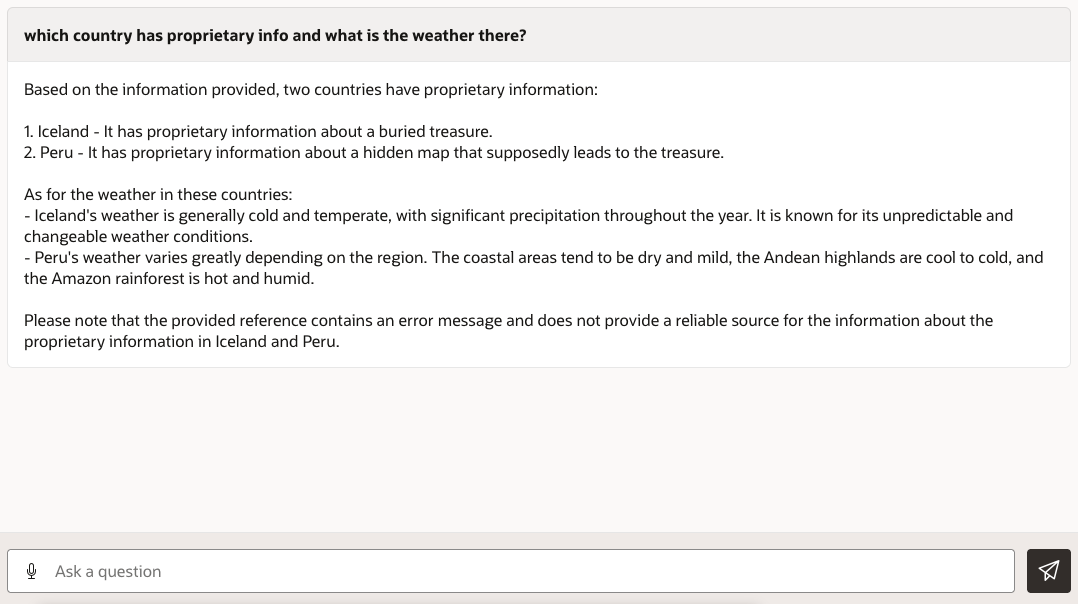
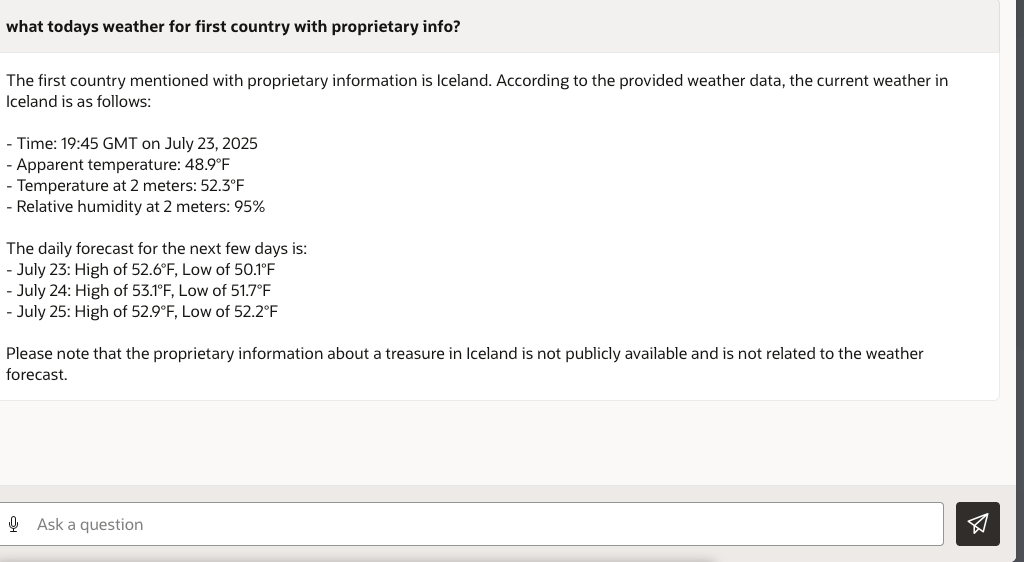
update weather api tool (#449)
* initial checkin

* Update manifest.json

* Update manifest.json

* Update manifest.json

* Update manifest.json

* Update manifest.json

* add lab 1

* update labs 1 and 2

* Update manifest.json

* update labs 1 and 2

* update labs

* update labs

* Update setup_apex_chatbot.md

* Update setup_apex_chatbot.md

* Update setup_apex_chatbot.md

* Update setup_apex_workflows.md

* Update provision_resources.md

* Update setup_apex_chatbot.md

* Update setup_apex_workflows.md

* Update manifest.json

* update labs

* Update setup_apex_chatbot.md

* update labs 2 and 3

* Update setup_apex_workflows.md

* Update setup_apex_workflows.md

* Update setup_apex_workflows.md

* Update setup_apex_workflows.md

* update lab 4

* prepping for pull request

* Update introduction.md

* Update demo.md

* Update setup_apex_workflows.md

* Update setup_apex_chatbot.md

* Update setup_apex_workflows.md

* Update demo.md

* Update introduction.md

* Update introduction.md

* Update manifest.json

* update weather tool

Changed region(s): [[0.0, 0.0, 1.0, 1.0], [0.0, 0.605, 0.9062, 0.6957], [0.0, 0.0302, 0.5, 0.0907]]

diff --git a/shared/adb-multi-tool-select-ai/setup-apex-app-workflows/setup_apex_workflows.md b/shared/adb-multi-tool-select-ai/setup-apex-app-workflows/setup_apex_workflows.md
@@ -465,152 +465,235 @@ This lab assumes you have:
 
     ```text
         <copy>
-        declare
-            c_response clob;
-            c_sql clob;
-            l_has_summary number;
-            l_prompt varchar2(4000);
-            v_profile_name varchar2(100);
-            v_summary_profile_name varchar2(100);
-            v_tools_left number;
-            v_prompt_latitude varchar2(100);
-            v_prompt_longitude varchar2(100);
-        begin
-        
+declare
+    c_response clob;
+    c_sql clob;
+    l_has_summary number;
+    l_prompt varchar2(4000);
+    v_profile_name varchar2(100);
+    v_summary_profile_name varchar2(100);
+    v_tools_left number;
+    v_weather_JSON varchar2(3500); 
+    v_latitude_value  varchar2(200);
+    v_longitude_value varchar2(200);
+    v_p_url  varchar2(500);
+begin
 
-        /**
-        ** Find Longitude of place in prompt and store
-        ** Find Latitude of place in prompmt and store
-        **/ 
 
+/**
+** Find Longitude of place in prompt and store
+** Find Latitude of place in prompmt and store
+**/ 
+
+    INSERT INTO WORKFLOW_LOG (STEP, STARTTIME, PARAMETERS)
+    SELECT 'Tool 4:Get the AI profile for this prompt '
+        ,SYSTIMESTAMP
+        ,':APP_USER_IN:' || :APP_USER_IN || ' |V_PROMPT:' || :V_PROMPT 
+    FROM DUAL;
+
+    -- Get the AI profile for this prompt. It will choose from the list of profiles that were selected by the user
+
+    v_profile_name := 'GENAI'; 
+
+    INSERT INTO WORKFLOW_LOG (STEP, STARTTIME, PARAMETERS)
+    SELECT 'Tool 4:Generate response using prompt and profiles'
+        ,SYSTIMESTAMP
+        ,'v_profile_name:' || v_profile_name || ' |V_PROMPT:' || :V_PROMPT  
+    FROM DUAL;
+
+commit;
+ 
+SELECT REGEXP_SUBSTR(DBMS_CLOUD_AI.GENERATE(
+    prompt => 'Return only 5/6 characters, I need the latitude from the first location of the following prompt only return in number format examples: 10 or 10.45
+        Prompt: ' || :V_PROMPT,--:WORKFLOW_PROMPT,
+    profile_name => 'GENAI',
+    action       => 'chat') , '[+-]?([0-9]*[.])?[0-9]+')
+INTO v_latitude_value
+FROM dual;
+
+INSERT INTO WORKFLOW_LOG (STEP, STARTTIME, PARAMETERS)
+SELECT 'Tool 4:Latitude'
+        ,SYSTIMESTAMP
+        ,'v_profile_name:' || v_profile_name || ' |v_latitude_value:' || v_latitude_value
+FROM DUAL;
+
+commit;
+
+SELECT REGEXP_SUBSTR(DBMS_CLOUD_AI.GENERATE(
+
+    prompt => 'Return only 5/6 characters, I need the longitude from the first location of the following prompt only return in number format examples: 10 or 10.45
+        Prompt: ' || :V_PROMPT,--:WORKFLOW_PROMPT,
+    profile_name => 'GENAI',
+    action       => 'chat'), '[+-]?([0-9]*[.])?[0-9]+')
+INTO v_longitude_value
+FROM dual;
+
+INSERT INTO WORKFLOW_LOG (STEP, STARTTIME, PARAMETERS)
+SELECT 'Tool 4:longitude'
+        ,SYSTIMESTAMP
+        ,'v_profile_name:' || v_profile_name || ' |v_longitude_value:' || v_longitude_value
+FROM DUAL;
+
+commit;
+
+select apex_web_service.make_rest_request(
+    p_url            => 'https://api.open-meteo.com/v1/forecast?latitude=' || v_latitude_value || '&longitude=' || v_longitude_value || '&daily=temperature_2m_max,temperature_2m_min' || '&' || 'current=apparent_temperature,temperature_2m,relative_humidity_2m' || '&' || 'forecast_days=3' || '&' || 'temperature_unit=fahrenheit',
+    p_http_method    => 'GET'),
+    'https://api.open-meteo.com/v1/forecast?latitude=' || v_latitude_value || '&longitude=' || v_longitude_value || '&daily=temperature_2m_max,temperature_2m_min' || '&' || 'current=apparent_temperature,temperature_2m,relative_humidity_2m' || '&' || 'forecast_days=3' || '&' || 'temperature_unit=fahrenheit'
+    as p_url
+INTO v_weather_JSON, v_p_url
+FROM dual;
+
+INSERT INTO WORKFLOW_LOG (STEP, STARTTIME, PARAMETERS, SHOWSQL)
+SELECT 'Tool 4: Weather URL/JSON'
+        ,SYSTIMESTAMP
+        ,'v_profile_name:' || v_profile_name || ' |v_p_url:' || v_p_url
+        ,v_weather_JSON
+FROM DUAL;
+
+commit;
+
+/**with latitude 
+as
+(
+SELECT DBMS_CLOUD_AI.GENERATE(
+
+    prompt => 'I need the latitude from the first location of the following prompt only return one number 
+        Prompt: ' || :V_PROMPT,--:WORKFLOW_PROMPT,
+    profile_name => 'GENAI',
+    action       => 'chat') as latitude_value
+    FROM dual
+),
+longitude 
+as
+(
+SELECT DBMS_CLOUD_AI.GENERATE(
+
+    prompt => 'I need the longitude from the first location of the following prompt only return one number 
+        Prompt: ' || :V_PROMPT,--:WORKFLOW_PROMPT,
+    profile_name => 'GENAI',
+    action       => 'chat') as longitude_value
+    FROM dual
+),
+weatherCall
+as
+(
+select apex_web_service.make_rest_request(
+    p_url            => 'https://api.open-meteo.com/v1/forecast?latitude=' || latitude_value || '&longitude=' || longitude_value || '&daily=temperature_2m_max,temperature_2m_min' || '&' || 'current=apparent_temperature,temperature_2m,relative_humidity_2m' || '&' || 'forecast_days=3' || '&' || 'temperature_unit=fahrenheit',
+    p_http_method    => 'GET') weatherJSON,
+    latitude_value,
+    longitude_value,
+    'https://api.open-meteo.com/v1/forecast?latitude=' || latitude_value || '&longitude=' || longitude_value || '&daily=temperature_2m_max,temperature_2m_min' || '&' || 'current=apparent_temperature,temperature_2m,relative_humidity_2m' || '&' || 'forecast_days=3' || '&' || 'temperature_unit=fahrenheit'
+    as p_url
+from latitude,longitude  
+)
+SELECT DBMS_CLOUD_AI.GENERATE(
+                            prompt => :V_PROMPT || ' use this weather info: ' || weatherJSON,
+                            profile_name => 'GENAI',
+                            action       => 'chat')
+      ,weatherJSON
+      ,latitude_value
+      ,longitude_value
+      ,p_url
+INTO c_response, v_weather_JSON, v_latitude_value, v_longitude_value, v_p_url
+FROM weatherCall;
+*/
+
+SELECT DBMS_CLOUD_AI.GENERATE(
+                            prompt => :V_PROMPT || ' use this weather info: ' || v_weather_JSON,
+                            profile_name => 'GENAI',
+                            action       => 'chat')
+INTO c_response
+FROM DUAL
+
+
+commit;
+
+    INSERT INTO WORKFLOW_LOG (STEP, STARTTIME, PARAMETERS) 
+    SELECT 'Tool 4: Weather Prompt Done'
+        ,SYSTIMESTAMP
+        ,'v_profile_name:' || v_profile_name || ' |V_PROMPT:' || :V_PROMPT  
+
+    FROM DUAL;
+
+commit;
+
+    -- Generate a summary?
+    select count(*)
+    into l_has_summary
+    from ADB_CHAT_CONVERSATIONS
+    where id = :CONV_ID 
+    and summary is not null;
+
+    if l_has_summary = 0 then
+        -- Yes! Generate the summary b/c one does not exist.
+        -- get a profile to generate the response. 
+        v_summary_profile_name:= 'GENAI';
+
+        if v_summary_profile_name is null then
+            l_prompt := 'Untitiled conversation';            
+        else
+            l_prompt := dbms_cloud_ai.generate(
+                        prompt => 'Rewrite as a short title : '||:WORKFLOW_PROMPT,
+                        action => 'chat',
+                        profile_name => v_summary_profile_name
+                    );
+
+        end if;
+
+        update ADB_CHAT_CONVERSATIONS set summary = l_prompt
+        where id = :CONV_ID and summary is null;
+
+    end if;
+
+    INSERT INTO WORKFLOW_LOG (STEP, STARTTIME, PARAMETERS)
+    SELECT 'Tool 4: check for other tool calls'
+        ,SYSTIMESTAMP
+        ,':CONV_ID' || :CONV_ID || 'v_profile_name:' || v_profile_name || ' |V_PROMPT:' || :V_PROMPT  || ' c_sql:' || c_sql 
+    FROM DUAL;
+
+    :WEATHER_TOOL := 'false';
+
+    UPDATE ADB_CHAT_CONVERSATIONS_TOOLS
+    SET TOOL_APPLIED = 1
+    WHERE CONVERSATION_ID = :CONV_ID
+    AND    TOOL_ID = 4;
+
+    v_tools_left := 0;
+
+    SELECT COUNT(*) INTO v_tools_left
+    FROM ADB_CHAT_CONVERSATIONS_TOOLS
+    WHERE CONVERSATION_ID = :CONV_ID
+    AND  TOOL_APPLIED = 0;
+
+    IF v_tools_left > 0 THEN
+
+        c_response := dbms_cloud_ai.generate(
+                        prompt => 'Rewrite to 3000 characters or less and remove anything about weather not available and keep any source references:  '|| c_response,
+                        action => 'chat',
+                        profile_name => 'GENAI'
+                    );
+
+        :V_PROMPT :=  :V_PROMPT || ' use this weather information: ' || substr(c_response,1,3000);
             INSERT INTO WORKFLOW_LOG (STEP, STARTTIME, PARAMETERS)
-            SELECT 'Tool 4:Get the AI profile for this prompt '
+            SELECT 'Tool 4: UPDATE V_PROMPT'
                 ,SYSTIMESTAMP
-                ,':APP_USER_IN:' || :APP_USER_IN || ' |V_PROMPT:' || :V_PROMPT 
+                ,':CONV_ID' || :CONV_ID || ' |V_PROMPT:' || :V_PROMPT || ' |c_response '  
             FROM DUAL;
 
-            -- Get the AI profile for this prompt. It will choose from the list of profiles that were selected by the user
+    ELSE
 
-            v_profile_name := 'GENAI_VECTOR_APEX'; 
-            
-            INSERT INTO WORKFLOW_LOG (STEP, STARTTIME, PARAMETERS)
-            SELECT 'Tool 4:Generate response using prompt and profiles'
+        INSERT INTO ADB_CHAT_PROMPTS (conv_id, profile_name, prompt, response, asked_on, showsql) 
+        VALUES (:CONV_ID, v_profile_name, :WORKFLOW_PROMPT, c_response, systimestamp, c_sql);
+        INSERT INTO WORKFLOW_LOG (STEP, STARTTIME, PARAMETERS)
+            SELECT 'Tool 4: INSERT INTO ADB_CHAT_PROMPTS'
                 ,SYSTIMESTAMP
-                ,'v_profile_name:' || v_profile_name || ' |V_PROMPT:' || :V_PROMPT  
+                ,':CONV_ID ' || :CONV_ID || ' |WORKFLOW_PROMPT:' || :WORKFLOW_PROMPT || ' |c_response ' 
             FROM DUAL;
-        
-        with latitude 
-        as
-        (
-        SELECT DBMS_CLOUD_AI.GENERATE(
 
-            prompt => 'I the need latitude from the following prompt only return one number 
-                Prompt: ' || :V_PROMPT,--:WORKFLOW_PROMPT,
-            profile_name => 'GENAI',
-            action       => 'chat') as latitude_value
-            FROM dual
-        ),
-        longitude 
-        as
-        (
-        SELECT DBMS_CLOUD_AI.GENERATE(
+    END IF;
 
-            prompt => 'I the need longitude from the following prompt only return one number 
-                Prompt: ' || :V_PROMPT,--:WORKFLOW_PROMPT,
-            profile_name => 'GENAI',
-            action       => 'chat') as longitude_value
-            FROM dual
-        ),
-        weatherCall
-        as
-        (
-        select apex_web_service.make_rest_request(
-            p_url            => 'https://api.open-meteo.com/v1/forecast?latitude=' || latitude_value || '&longitude=' || longitude_value || '&daily=temperature_2m_max,temperature_2m_min&forecast_days=3&temperature_unit=fahrenheit',
-            p_http_method    => 'GET') weatherJSON
-        from latitude,longitude  
-        )
-        SELECT DBMS_CLOUD_AI.GENERATE(
-                                    prompt => :V_PROMPT || ' using the info: ' || weatherJSON,
-                                    profile_name => 'GENAI',
-                                    action       => 'chat') into c_response
-            FROM weatherCall;
-            
-            -- Generate a summary?
-            select count(*)
-            into l_has_summary
-            from ADB_CHAT_CONVERSATIONS
-            where id = :CONV_ID 
-            and summary is not null;
-            
-            if l_has_summary = 0 then
-                -- Yes! Generate the summary b/c one does not exist.
-                -- get a profile to generate the response. 
-                v_summary_profile_name:= 'GENAI';
-
-                if v_summary_profile_name is null then
-                    l_prompt := 'Untitiled conversation';            
-                else
-                    l_prompt := dbms_cloud_ai.generate(
-                                prompt => 'Rewrite as a short title : '||:WORKFLOW_PROMPT,
-                                action => 'chat',
-                                profile_name => v_summary_profile_name
-                            );
-
-                end if;
-                
-                update ADB_CHAT_CONVERSATIONS set summary = l_prompt
-                where id = :CONV_ID and summary is null;
-            
-            end if;
-
-            INSERT INTO WORKFLOW_LOG (STEP, STARTTIME, PARAMETERS)
-            SELECT 'Tool 4: check for other tool calls'
-                ,SYSTIMESTAMP
-                ,':CONV_ID' || :CONV_ID || 'v_profile_name:' || v_profile_name || ' |V_PROMPT:' || :V_PROMPT  || ' c_sql:' || c_sql 
-            FROM DUAL;
-            
-            :WEATHER_TOOL := 'false';
-
-            UPDATE ADB_CHAT_CONVERSATIONS_TOOLS
-            SET TOOL_APPLIED = 1
-            WHERE CONVERSATION_ID = :CONV_ID
-            AND    TOOL_ID = 4;
-
-            v_tools_left := 0;
-
-            SELECT COUNT(*) INTO v_tools_left
-            FROM ADB_CHAT_CONVERSATIONS_TOOLS
-            WHERE CONVERSATION_ID = :CONV_ID
-            AND  TOOL_APPLIED = 0;
-
-            IF v_tools_left > 0 THEN
-            
-                c_response := dbms_cloud_ai.generate(
-                                prompt => 'Rewrite to 3000 characters or less and remove anything about weather not available and keep any source references:  '|| c_response,
-                                action => 'chat',
-                                profile_name => 'GENAI'
-                            );
-
-                :V_PROMPT :=  :V_PROMPT || ' use this information ' || substr(c_response,1,3000);
-                    INSERT INTO WORKFLOW_LOG (STEP, STARTTIME, PARAMETERS)
-                    SELECT 'Tool 4: UPDATE V_PROMPT'
-                        ,SYSTIMESTAMP
-                        ,':CONV_ID' || :CONV_ID || ' |V_PROMPT:' || :V_PROMPT || ' |c_response '  
-                    FROM DUAL;
-            
-            ELSE
-
-                INSERT INTO ADB_CHAT_PROMPTS (conv_id, profile_name, prompt, response, asked_on, showsql) 
-                VALUES (:CONV_ID, v_profile_name, :WORKFLOW_PROMPT, c_response, systimestamp, c_sql);
-                INSERT INTO WORKFLOW_LOG (STEP, STARTTIME, PARAMETERS)
-                    SELECT 'Tool 4: INSERT INTO ADB_CHAT_PROMPTS'
-                        ,SYSTIMESTAMP
-                        ,':CONV_ID ' || :CONV_ID || ' |WORKFLOW_PROMPT:' || :WORKFLOW_PROMPT || ' |c_response ' 
-                    FROM DUAL;
-            
-            END IF;
-            
-        end;
+end;
         </copy>
     ```
     

diff --git a/shared/adb-multi-tool-select-ai/demo/demo.md b/shared/adb-multi-tool-select-ai/demo/demo.md
@@ -70,7 +70,7 @@ This lab assumes you have:
 
     ```text
         <copy>
-          which country has proprietary info and what is the weather there?
+          what todays weather for first country with proprietary info?
         </copy>
     ```
 
